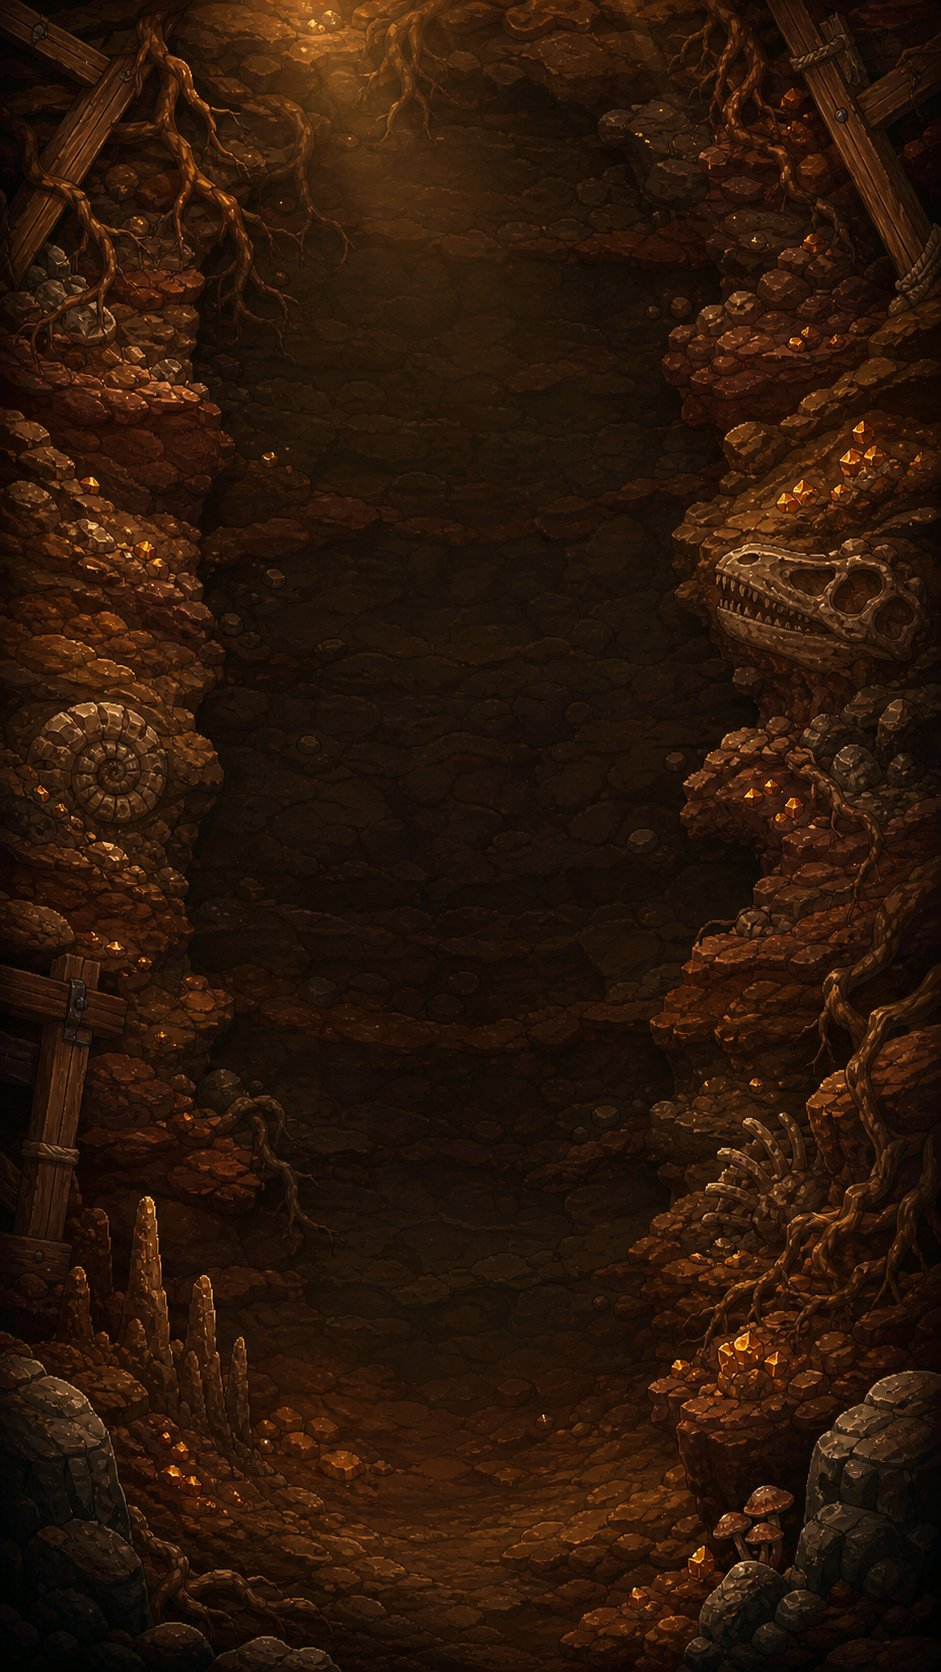
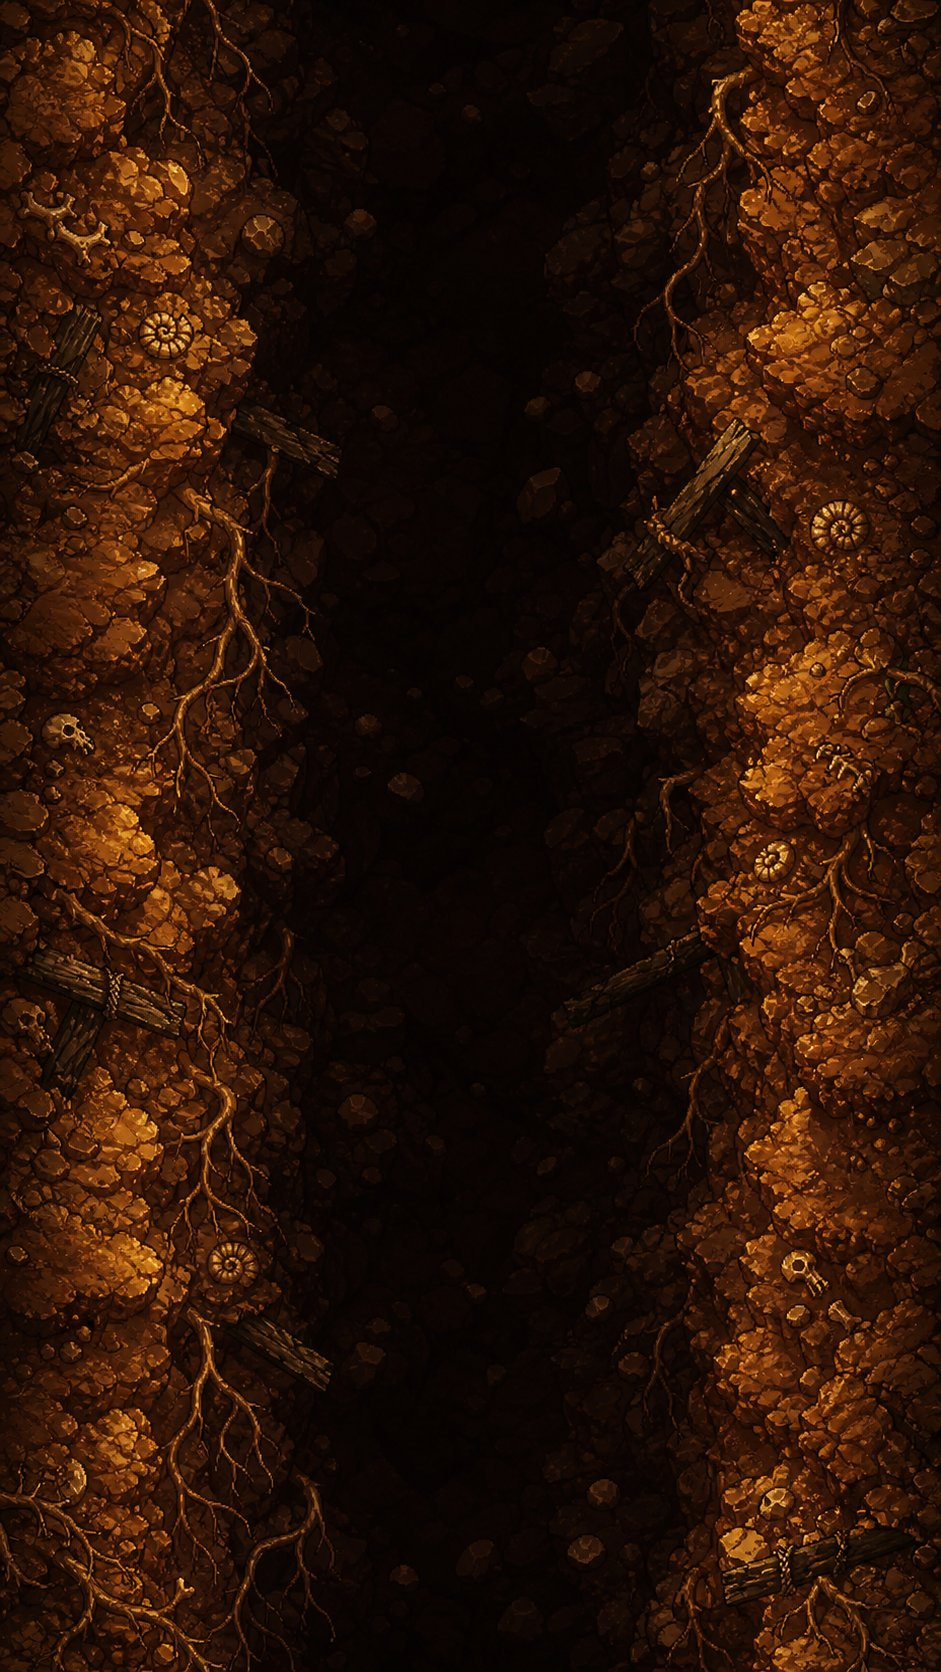
Make biome backgrounds scroll seamlessly

diff --git a/github-pages/core/GameEngine.js b/github-pages/core/GameEngine.js
@@ -47,7 +47,6 @@ export class GameEngine {
     this.speed = 1;
     this.lastTime = performance.now();
     this.time = 0;
-    this.menuOffset = 0;
     this.particles = [];
     this.particlePool = [];
     this.floaters = [];
@@ -186,8 +185,6 @@ export class GameEngine {
         this.slowMotion = Math.max(this.slowMotion, 0.95);
         this.ui.showBiomeUnlock(biome);
         this.audio.play("biome");
-      } else {
-        this.ui.showBiome(biome.name);
       }
     }
     this.run.hp = pickaxe.hp;
@@ -670,7 +667,6 @@ export class GameEngine {
   }
 
   updateAmbient(delta) {
-    this.menuOffset += delta * 18;
     this.updateEffects(delta);
   }
 
@@ -714,9 +710,13 @@ export class GameEngine {
     const shakeX = this.shake ? (Math.random() - 0.5) * this.shake : 0;
     const shakeY = this.shake ? (Math.random() - 0.5) * this.shake : 0;
     context.translate(shakeX, shakeY);
-    this.renderBackground();
-    if (this.generator && this.state !== "menu") this.renderMine();
-    else this.renderMenuBackdrop();
+    if (this.state === "menu") {
+      this.renderMenuBackground();
+      this.renderMenuBackdrop();
+    } else {
+      this.renderBackground();
+      if (this.generator) this.renderMine();
+    }
     if (this.pickaxe && this.state !== "menu") this.renderPickaxe();
     this.renderEffects();
     context.restore();
@@ -727,29 +727,49 @@ export class GameEngine {
   }
 
   renderBackground() {
-    const depth = this.run?.depth || Math.floor(this.menuOffset / 8);
+    const depth = this.run?.depth || 0;
     const currentIndex = BIOMES.findLastIndex((biome) => depth >= biome.start);
     const current = BIOMES[Math.max(0, currentIndex)];
     const next = BIOMES[Math.min(BIOMES.length - 1, currentIndex + 1)];
-    const span = Math.max(1, next.start - current.start);
-    const blend = current === next ? 0 : clamp((depth - current.start) / span, 0, 1);
-    const transition = current === next ? 0 : clamp((depth - next.start + Math.min(90, span * 0.18)) / Math.min(90, span * 0.18), 0, 1);
+    const previous = BIOMES[Math.max(0, currentIndex - 1)];
+    let from = current;
+    let to = current;
+    let blend = 0;
+
+    if (currentIndex > 0) {
+      const width = Math.min(260, Math.max(100, (current.start - previous.start) * 0.4));
+      if (depth < current.start + width / 2) {
+        from = previous;
+        to = current;
+        blend = clamp((depth - (current.start - width / 2)) / width, 0, 1);
+      }
+    }
+    if (from === current && next !== current) {
+      const width = Math.min(260, Math.max(100, (next.start - current.start) * 0.4));
+      if (depth > next.start - width / 2) {
+        from = current;
+        to = next;
+        blend = clamp((depth - (next.start - width / 2)) / width, 0, 1);
+      }
+    }
+
+    const smoothBlend = blend * blend * (3 - 2 * blend);
     const gradient = this.context.createLinearGradient(0, 0, 0, this.viewportHeight);
-    gradient.addColorStop(0, mixColor(current.background[0], next.background[0], blend));
-    gradient.addColorStop(1, mixColor(current.background[1], next.background[1], blend));
+    gradient.addColorStop(0, mixColor(from.background[0], to.background[0], smoothBlend));
+    gradient.addColorStop(1, mixColor(from.background[1], to.background[1], smoothBlend));
     this.context.fillStyle = gradient;
     this.context.fillRect(-20, -20, GAME.width + 40, this.viewportHeight + 40);
-    this.drawBiomeArtwork(current, 1);
-    if (transition > 0) this.drawBiomeArtwork(next, transition);
-    this.context.fillStyle = `rgba(5,7,15,${accountLevelFromXp(this.save.data.accountXp) >= 40 ? 0.36 : 0.47})`;
+    this.drawBiomeArtwork(from, 1);
+    if (to !== from && smoothBlend > 0) this.drawBiomeArtwork(to, smoothBlend);
+    this.context.fillStyle = `rgba(5,7,15,${accountLevelFromXp(this.save.data.accountXp) >= 40 ? 0.12 : 0.22})`;
     this.context.fillRect(-20, -20, GAME.width + 40, this.viewportHeight + 40);
-    this.renderCaveBackdrop(current, next, blend);
-    this.context.globalAlpha = 0.18;
-    for (let index = 0; index < 24; index += 1) {
+    this.context.globalAlpha = 0.13;
+    const dustTravel = this.cameraY * 0.31;
+    for (let index = 0; index < 18; index += 1) {
       const x = (index * 91) % GAME.width;
-      const y = ((index * 137 + this.menuOffset * (index % 3 + 1)) % (this.viewportHeight + 80)) - 40;
-      this.context.fillStyle = current.dust;
-      this.context.fillRect(x, y, index % 4 === 0 ? 3 : 1.5, index % 5 === 0 ? 3 : 1.5);
+      const y = wrap(index * 137 - dustTravel * (0.7 + index % 3 * 0.16), this.viewportHeight + 80) - 40;
+      this.context.fillStyle = mixColor(from.dust, to.dust, smoothBlend);
+      this.context.fillRect(x, y, index % 4 === 0 ? 2.5 : 1.25, index % 5 === 0 ? 2.5 : 1.25);
     }
     this.context.globalAlpha = 1;
   }
@@ -758,118 +778,42 @@ export class GameEngine {
     const image = this.assets?.get(biome.art);
     if (!image) return;
     const context = this.context;
-    const targetRatio = GAME.width / this.viewportHeight;
     const sourceRatio = image.width / image.height;
-    let sourceX = 0;
-    let sourceY = 0;
-    let sourceWidth = image.width;
-    let sourceHeight = image.height;
-    if (sourceRatio > targetRatio) {
-      sourceWidth = image.height * targetRatio;
-      sourceX = (image.width - sourceWidth) / 2;
-    } else {
-      sourceHeight = image.width / targetRatio;
-      sourceY = (image.height - sourceHeight) / 2;
-    }
+    const segmentHeight = GAME.width / sourceRatio;
+    const travel = this.cameraY * 0.22;
+    const firstSegment = Math.floor(travel / segmentHeight) - 1;
+    const lastSegment = firstSegment + Math.ceil(this.viewportHeight / segmentHeight) + 3;
     context.save();
     context.globalAlpha = alpha;
     context.imageSmoothingEnabled = true;
-    context.drawImage(image, sourceX, sourceY, sourceWidth, sourceHeight, 0, 0, GAME.width, this.viewportHeight);
-    context.restore();
-  }
-
-  renderCaveBackdrop(current, next, blend) {
-    const context = this.context;
-    const height = this.viewportHeight;
-    const travel = (this.cameraY || this.menuOffset) * 0.18;
-    const accent = mixColor(current.dust, next.dust, blend);
-    context.save();
-
-    context.globalAlpha = 0.11;
-    context.fillStyle = accent;
-    for (let index = -1; index < Math.ceil(height / 104) + 2; index += 1) {
-      const y = wrap(index * 104 - travel, height + 104) - 52;
-      context.beginPath();
-      context.moveTo(0, y + 16);
-      context.lineTo(74, y + 3);
-      context.lineTo(155, y + 20);
-      context.lineTo(239, y + 7);
-      context.lineTo(332, y + 24);
-      context.lineTo(GAME.width, y + 9);
-      context.lineTo(GAME.width, y + 34);
-      context.lineTo(318, y + 43);
-      context.lineTo(218, y + 31);
-      context.lineTo(112, y + 45);
-      context.lineTo(0, y + 35);
-      context.closePath();
-      context.fill();
-    }
-
-    context.globalAlpha = 0.18;
-    context.strokeStyle = accent;
-    context.lineWidth = 1.4;
-    for (let index = 0; index < 7; index += 1) {
-      const x = 34 + index * 61 + Math.sin(index * 2.7) * 17;
-      const y = wrap(index * 137 - travel * 0.65, height + 170) - 80;
-      context.beginPath();
-      context.moveTo(x, y);
-      context.lineTo(x + 13, y + 24);
-      context.lineTo(x - 5, y + 51);
-      context.lineTo(x + 18, y + 79);
-      context.lineTo(x + 8, y + 118);
-      context.stroke();
-    }
-
-    const wallShade = current.id === "fire" ? "#2b0909"
-      : current.id === "crystal" ? "#110b27"
-        : current.id === "stone" ? "#0b1724" : "#190f13";
-    context.globalAlpha = 0.28;
-    context.fillStyle = wallShade;
-    context.beginPath();
-    context.moveTo(0, 0);
-    context.lineTo(35, 0);
-    context.lineTo(23, height * 0.18);
-    context.lineTo(43, height * 0.35);
-    context.lineTo(19, height * 0.58);
-    context.lineTo(36, height * 0.76);
-    context.lineTo(15, height);
-    context.lineTo(0, height);
-    context.closePath();
-    context.fill();
-    context.beginPath();
-    context.moveTo(GAME.width, 0);
-    context.lineTo(GAME.width - 29, 0);
-    context.lineTo(GAME.width - 17, height * 0.21);
-    context.lineTo(GAME.width - 41, height * 0.42);
-    context.lineTo(GAME.width - 20, height * 0.65);
-    context.lineTo(GAME.width - 38, height * 0.83);
-    context.lineTo(GAME.width - 16, height);
-    context.lineTo(GAME.width, height);
-    context.closePath();
-    context.fill();
-
-    context.globalAlpha = current.id === "crystal" ? 0.24 : 0.13;
-    context.fillStyle = accent;
-    context.shadowColor = accent;
-    context.shadowBlur = current.id === "crystal" ? 12 : 5;
-    for (let index = 0; index < 9; index += 1) {
-      const x = 28 + (index * 83) % (GAME.width - 56);
-      const y = wrap(index * 151 - travel * 0.8, height + 90) - 45;
-      const size = 2 + index % 3;
+    for (let segment = firstSegment; segment <= lastSegment; segment += 1) {
+      const y = segment * segmentHeight - travel;
       context.save();
-      context.translate(x, y);
-      context.rotate(Math.PI / 4);
-      context.fillRect(-size, -size, size * 2, size * 2);
+      if (Math.abs(segment) % 2 === 1) {
+        context.translate(0, y + segmentHeight);
+        context.scale(1, -1);
+        context.drawImage(image, 0, 0, GAME.width, segmentHeight);
+      } else {
+        context.drawImage(image, 0, y, GAME.width, segmentHeight);
+      }
       context.restore();
     }
     context.restore();
   }
 
+  renderMenuBackground() {
+    const gradient = this.context.createLinearGradient(0, 0, 0, this.viewportHeight);
+    gradient.addColorStop(0, "#24202a");
+    gradient.addColorStop(1, "#090b14");
+    this.context.fillStyle = gradient;
+    this.context.fillRect(-20, -20, GAME.width + 40, this.viewportHeight + 40);
+  }
+
   renderMenuBackdrop() {
     const context = this.context;
     context.save();
-    context.globalAlpha = 0.24;
-    const offset = this.menuOffset % GAME.blockSize;
+    context.globalAlpha = 0.68;
+    const offset = 0;
     for (let row = -1; row < Math.ceil(this.viewportHeight / GAME.blockSize) + 1; row += 1) {
       for (let column = 0; column < GAME.columns; column += 1) {
         const y = row * GAME.blockSize + offset;

diff --git a/github-pages/styles.css b/github-pages/styles.css
@@ -484,16 +484,13 @@ input[type="range"] { width:100%; accent-color:var(--cyan); }
 .cosmetic-grid article strong { margin-top:2px; font-size:10px; }
 .cosmetic-grid article p { margin:3px 0 0; color:#8991a1; font-size:8px; line-height:1.3; }
 
-.upgrade-flash, .biome-label, .toast {
+.upgrade-flash, .toast {
   position:absolute; z-index:30; left:50%; transform:translateX(-50%); text-align:center; pointer-events:none;
   animation:pop-in .25s ease-out both;
 }
 .upgrade-flash { top:29%; min-width:265px; padding:15px 22px; border:1px solid rgba(92,229,229,.55); border-radius:18px; background:rgba(9,19,30,.93); box-shadow:0 0 40px rgba(92,229,229,.28); }
 .upgrade-flash small { display:block; color:var(--cyan); font:900 18px/1 system-ui, sans-serif; }
 .upgrade-flash strong { display:block; margin-top:4px; font-size:11px; }
-.biome-label { top:19%; padding:10px 18px; border-radius:14px; background:rgba(10,12,22,.82); }
-.biome-label small { display:block; color:var(--muted); font-size:7px; letter-spacing:.17em; }
-.biome-label strong { color:var(--gold); font-size:12px; }
 .biome-unlock {
   position:absolute; z-index:48; inset:0; display:grid; place-items:center; padding:28px; pointer-events:none;
   background:
@@ -553,9 +550,7 @@ input[type="range"] { width:100%; accent-color:var(--cyan); }
 }
 #game-shell.cosmetic-frame { box-shadow:0 0 0 1px hsla(var(--level-hue),70%,68%,.35),0 0 80px rgba(0,0,0,.65); }
 #game-shell.cosmetic-menu #menu-screen {
-  background:
-    linear-gradient(180deg,rgba(8,10,19,.2),rgba(8,10,19,.72) 58%,rgba(8,10,19,.97)),
-    url("assets/biomes/surface.jpg") center/cover;
+  background:linear-gradient(180deg,rgba(8,10,19,.08),rgba(8,10,19,.68) 58%,rgba(8,10,19,.96));
 }
 #game-shell.ui-aurora { --panel:rgba(11,22,34,.92); --line:rgba(92,229,229,.18); }
 #game-shell.ui-aurora .screen:not(#menu-screen) { background-color:rgba(5,13,23,.12); }

diff --git a/github-pages/ui/UIManager.js b/github-pages/ui/UIManager.js
@@ -435,14 +435,6 @@ export class UIManager {
     $("#game-shell").classList.remove("critical-active");
   }
 
-  showBiome(name) {
-    const element = $("#biome-label");
-    element.querySelector("strong").textContent = name;
-    element.classList.remove("hidden");
-    clearTimeout(this.biomeTimer);
-    this.biomeTimer = setTimeout(() => element.classList.add("hidden"), 1800);
-  }
-
   showBiomeUnlock(biome) {
     const element = $("#biome-unlock");
     element.style.setProperty("--biome-unlock-art", `url("${this.biomeArtUrl(biome)}")`);

diff --git a/github-pages/index.html b/github-pages/index.html
@@ -133,7 +133,6 @@
         </section>
 
         <div id="upgrade-flash" class="upgrade-flash hidden"><small>УЛУЧШЕНИЕ!</small><strong id="upgrade-text">Деревянная → Каменная</strong></div>
-        <div id="biome-label" class="biome-label hidden"><small>НОВАЯ ЗОНА</small><strong>Каменные глубины</strong></div>
         <div id="biome-unlock" class="biome-unlock hidden">
           <div>
             <small>ГЛОБАЛЬНАЯ КАРТА ОБНОВЛЕНА</small>

diff --git a/README.md b/README.md
@@ -13,6 +13,7 @@
 - редкий критический удар с шансом 0,6%, остановкой времени и сбором всей видимой области;
 - глобальная экспедиция к ядру планеты на глубине 3000 метров;
 - шесть открываемых навсегда биомов с оригинальными фоновыми иллюстрациями и скрытыми областями `???`;
+- бесконечно зацикленные фоновые секции с параллаксом и плавным смешиванием соседних биомов;
 - постоянная карта глубины, процент до ядра и расстояние до следующего биома;
 - опыт аккаунта, 50 уровней, восемь званий и косметические награды без влияния на баланс;
 - постоянные улучшения, три ежедневных задания и статистика;
